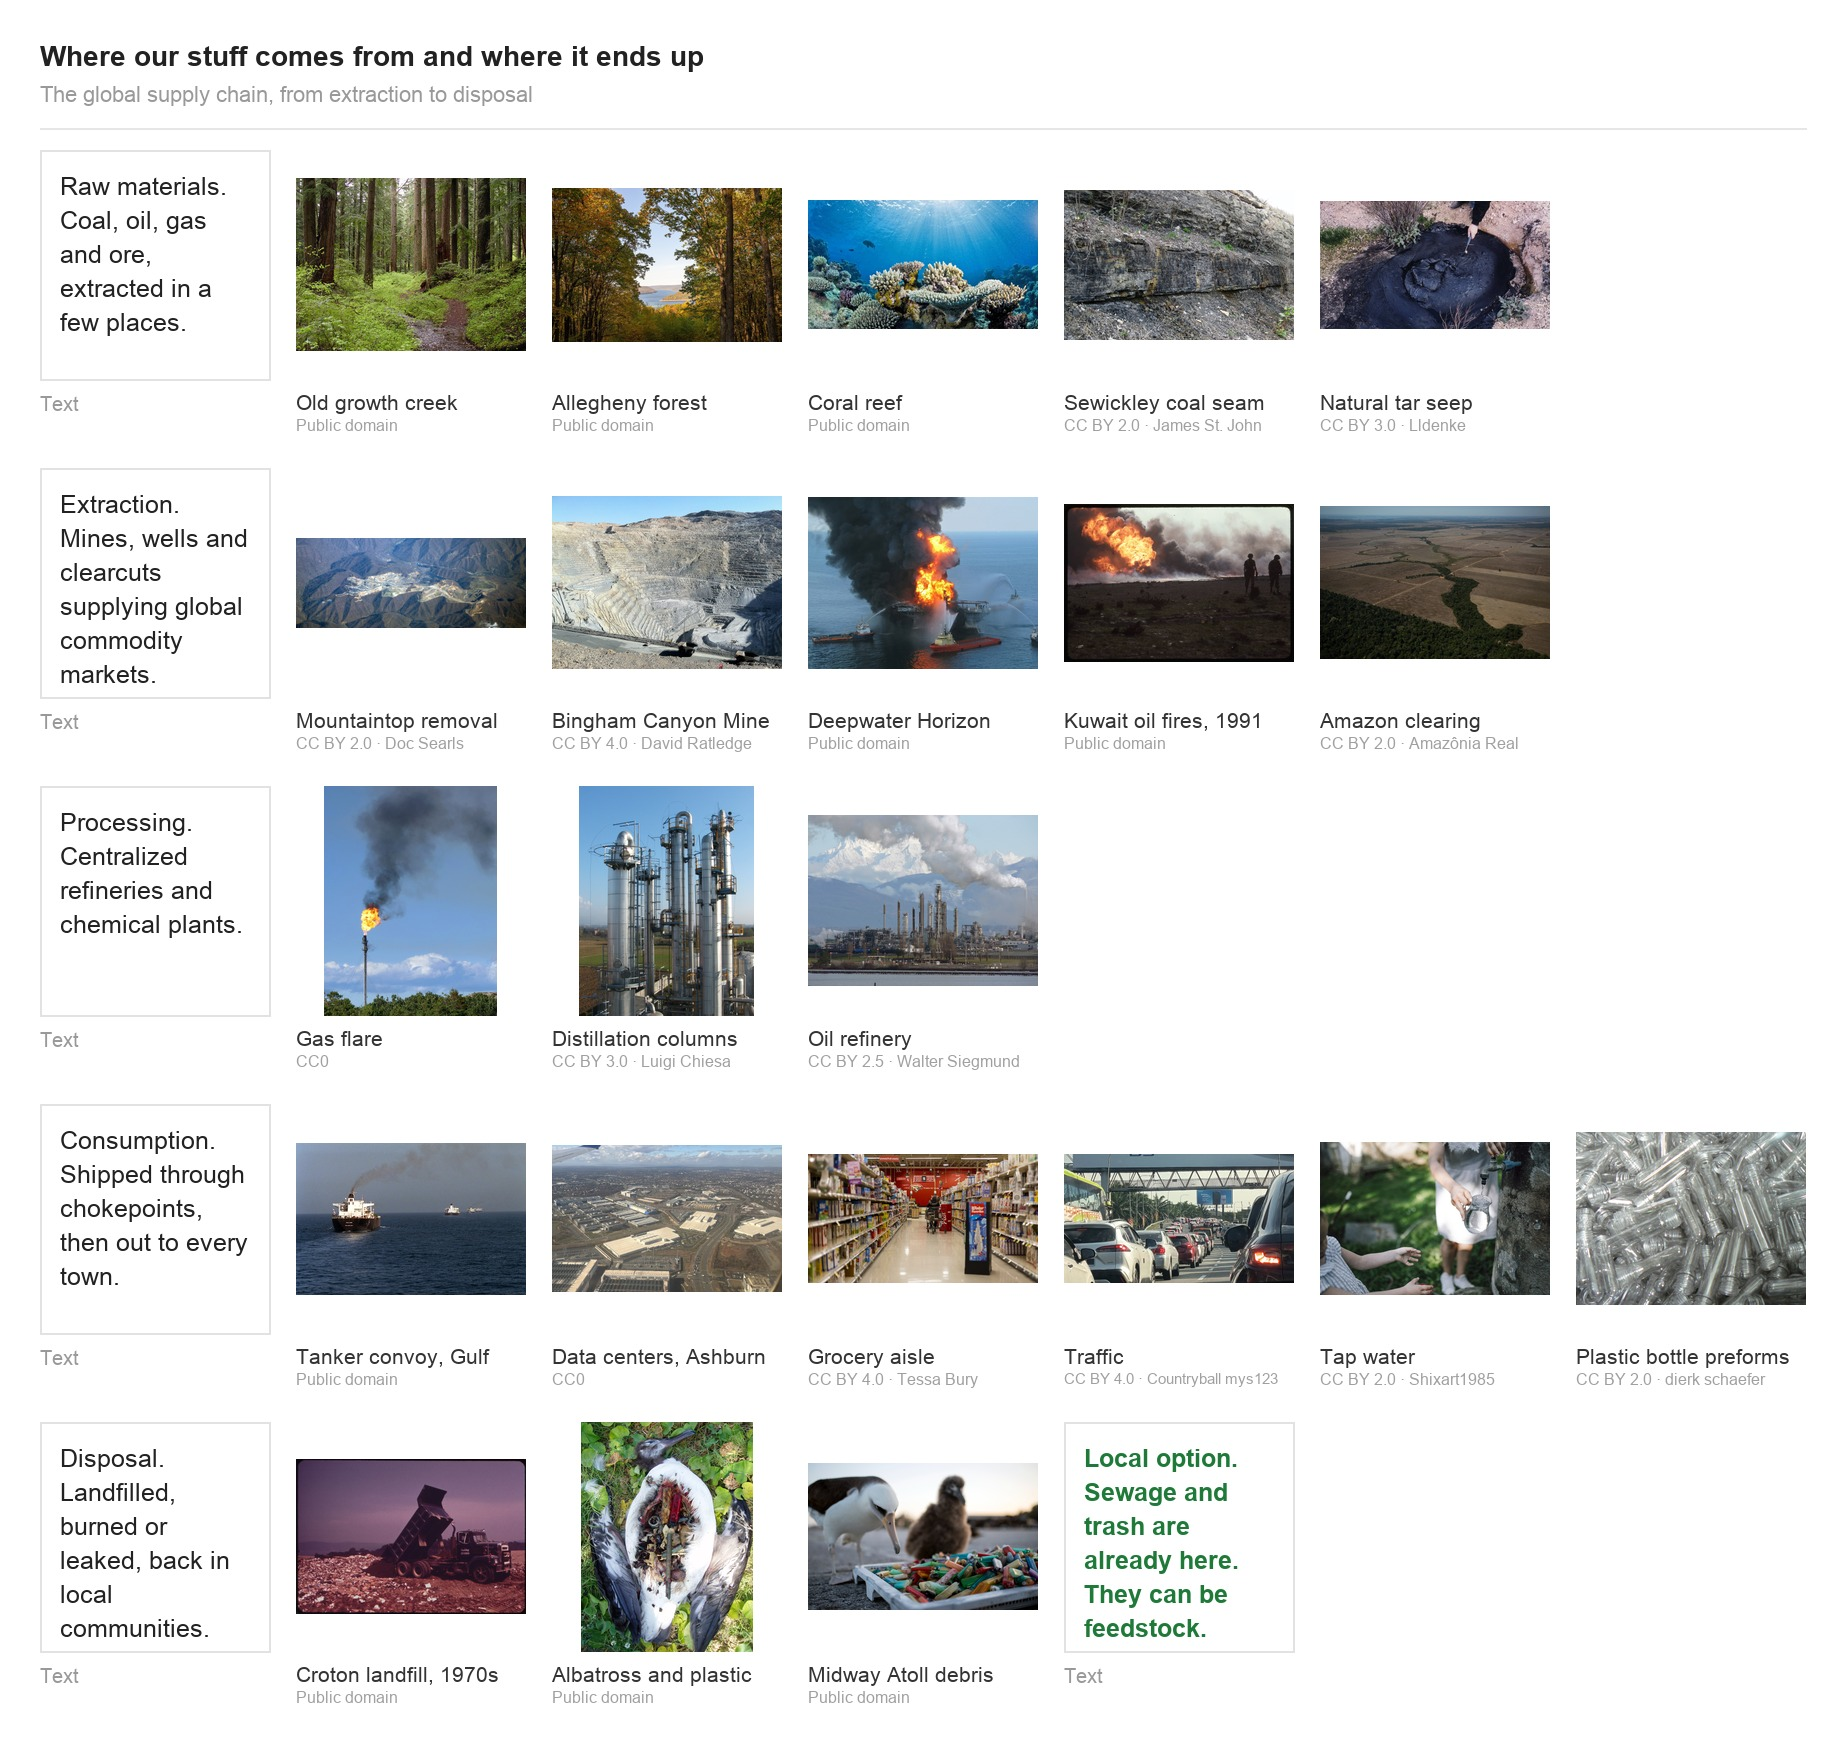
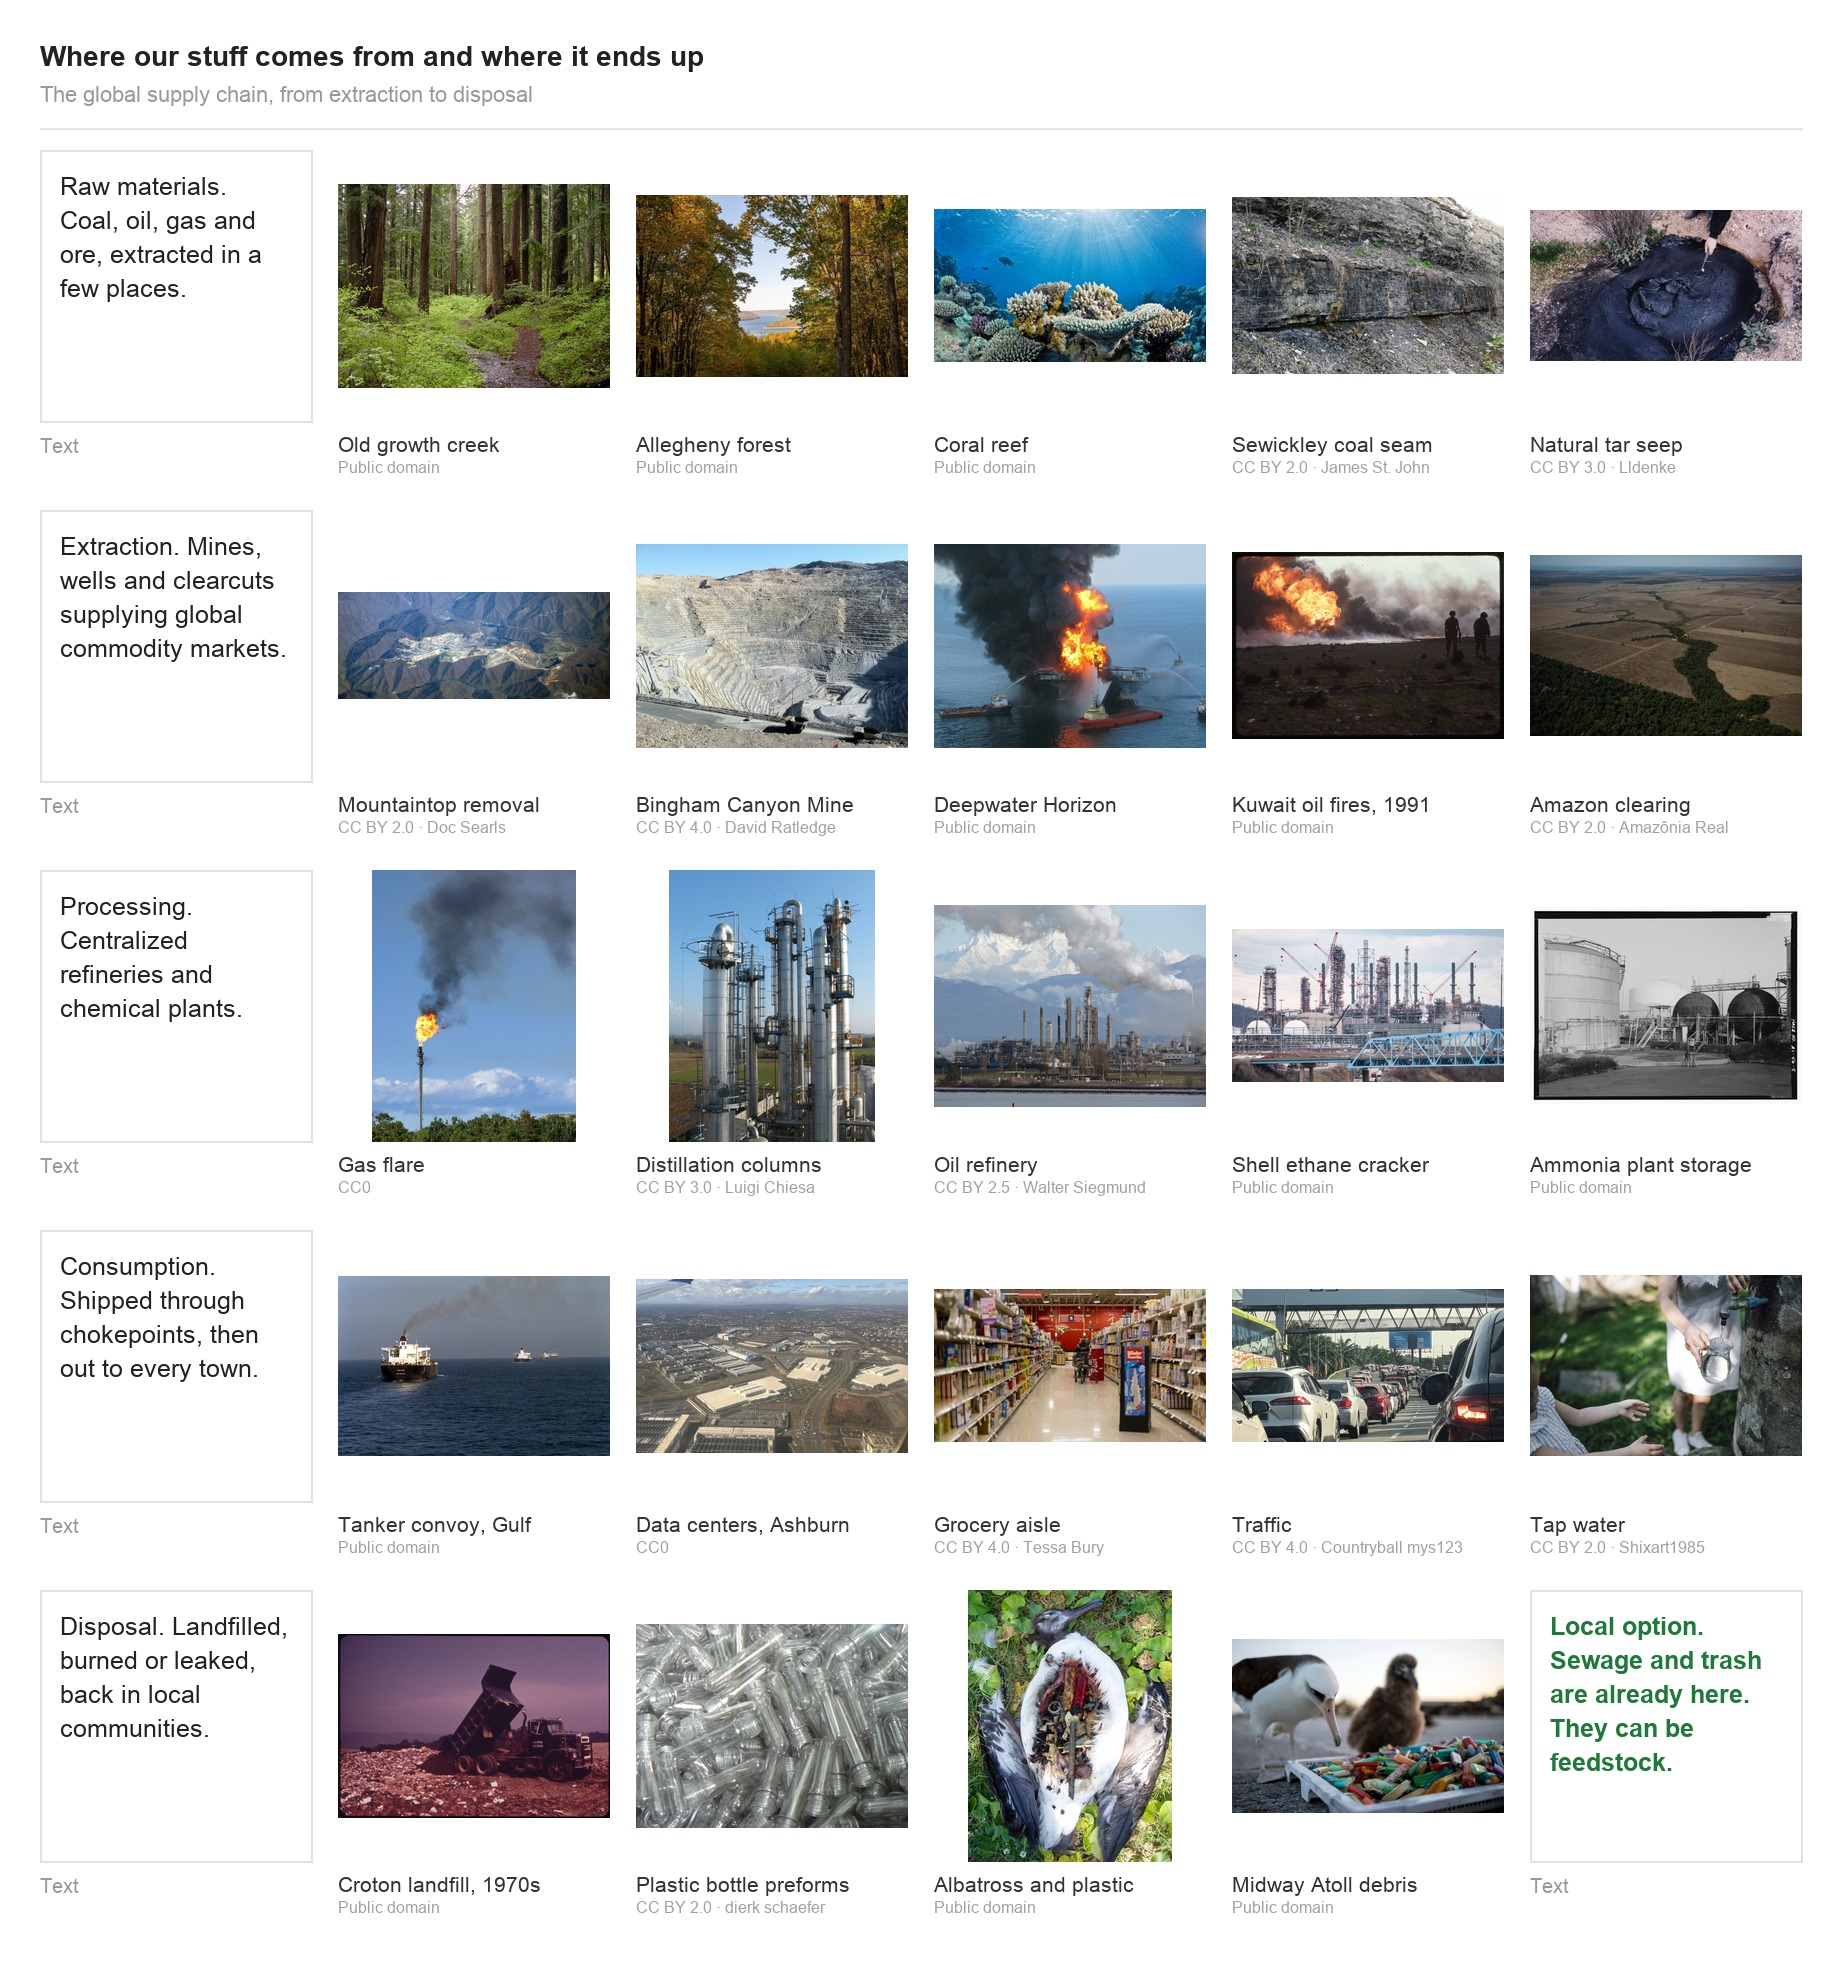
Full 6 by 5 photo grid, one label plus five photos per stage
Adds the Shell ethane cracker and an ammonia plant to processing.

diff --git a/index.html b/index.html
@@ -30,7 +30,7 @@ I am a licensed Professional Engineer (PE) in the state of New York.
 <p>
 My research interests include superstructure formulation, optimization, causality, waste valorization, world models and market decentralization.
 </p>
-<figure style="max-width:920px"><img src="images/taken_made_thrown_away.jpg?v=6" alt="A grid of photos following the global supply chain: forests, reefs and coal seams; mountaintop removal, the Deepwater Horizon fire, a gas flare, the 1991 Kuwait oil fires and Amazon burning; refineries; a tanker convoy in the Gulf and data centers; grocery aisles and traffic; a landfill and albatrosses full of plastic; ending with the note that what we throw away could replace what we take"><figcaption>Photos are public domain or Creative Commons, credited under each image.</figcaption></figure>
+<figure style="max-width:920px"><img src="images/taken_made_thrown_away.jpg?v=7" alt="A grid of photos following the global supply chain: forests, reefs and coal seams; mountaintop removal, the Deepwater Horizon fire, a gas flare, the 1991 Kuwait oil fires and Amazon burning; refineries; a tanker convoy in the Gulf and data centers; grocery aisles and traffic; a landfill and albatrosses full of plastic; ending with the note that what we throw away could replace what we take"><figcaption>Photos are public domain or Creative Commons, credited under each image.</figcaption></figure>
 <h3>Education</h3>
 M.S. Chemical Engineering, Carnegie Mellon University (Expected 2026)<br>
 B.S. Chemical Engineering (Minors: Bioengineering, Chemistry), Texas Tech University, 2015
